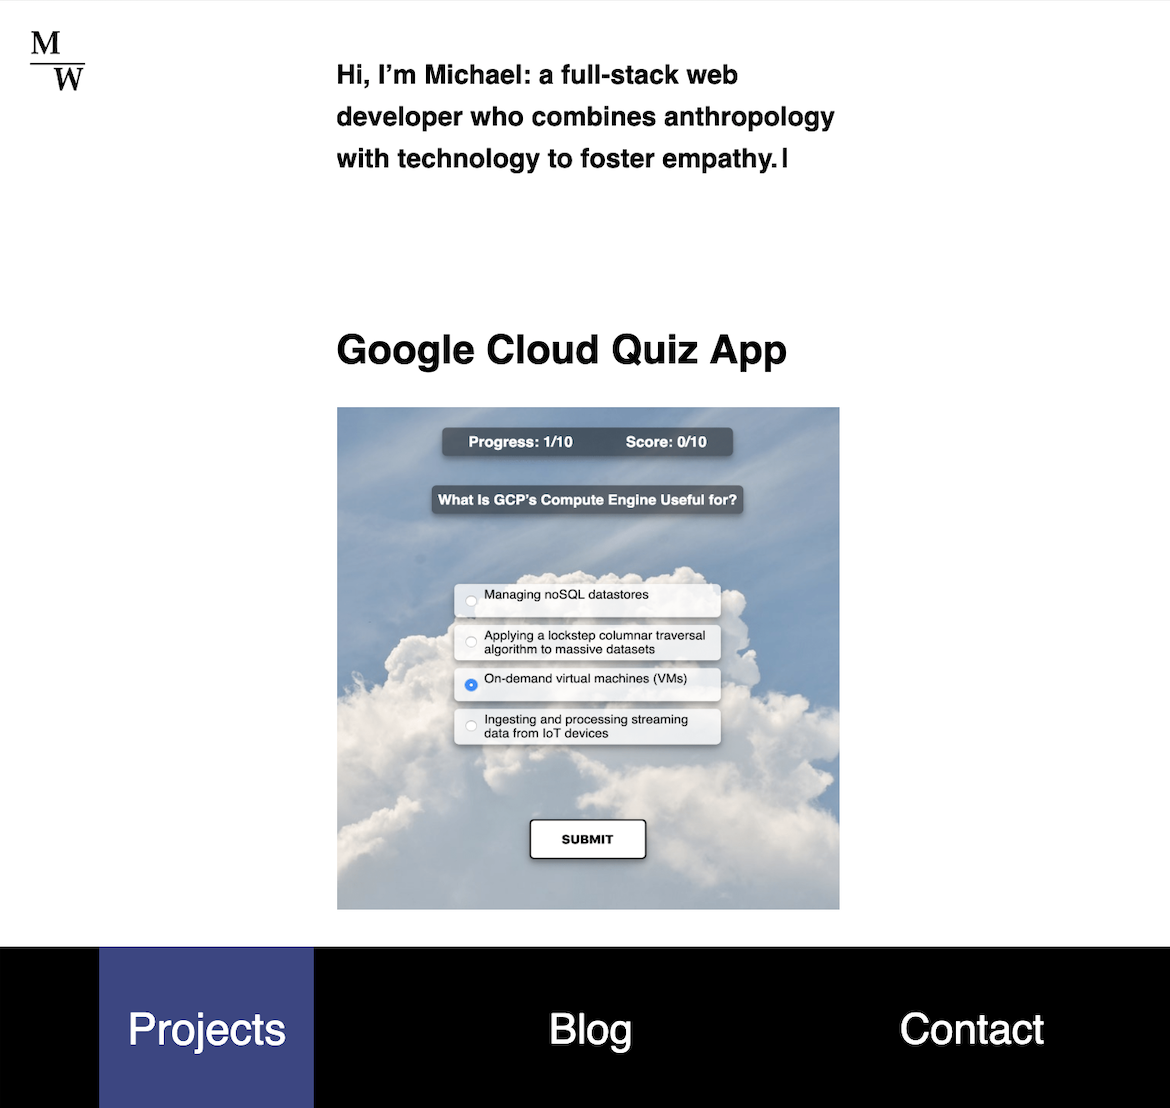
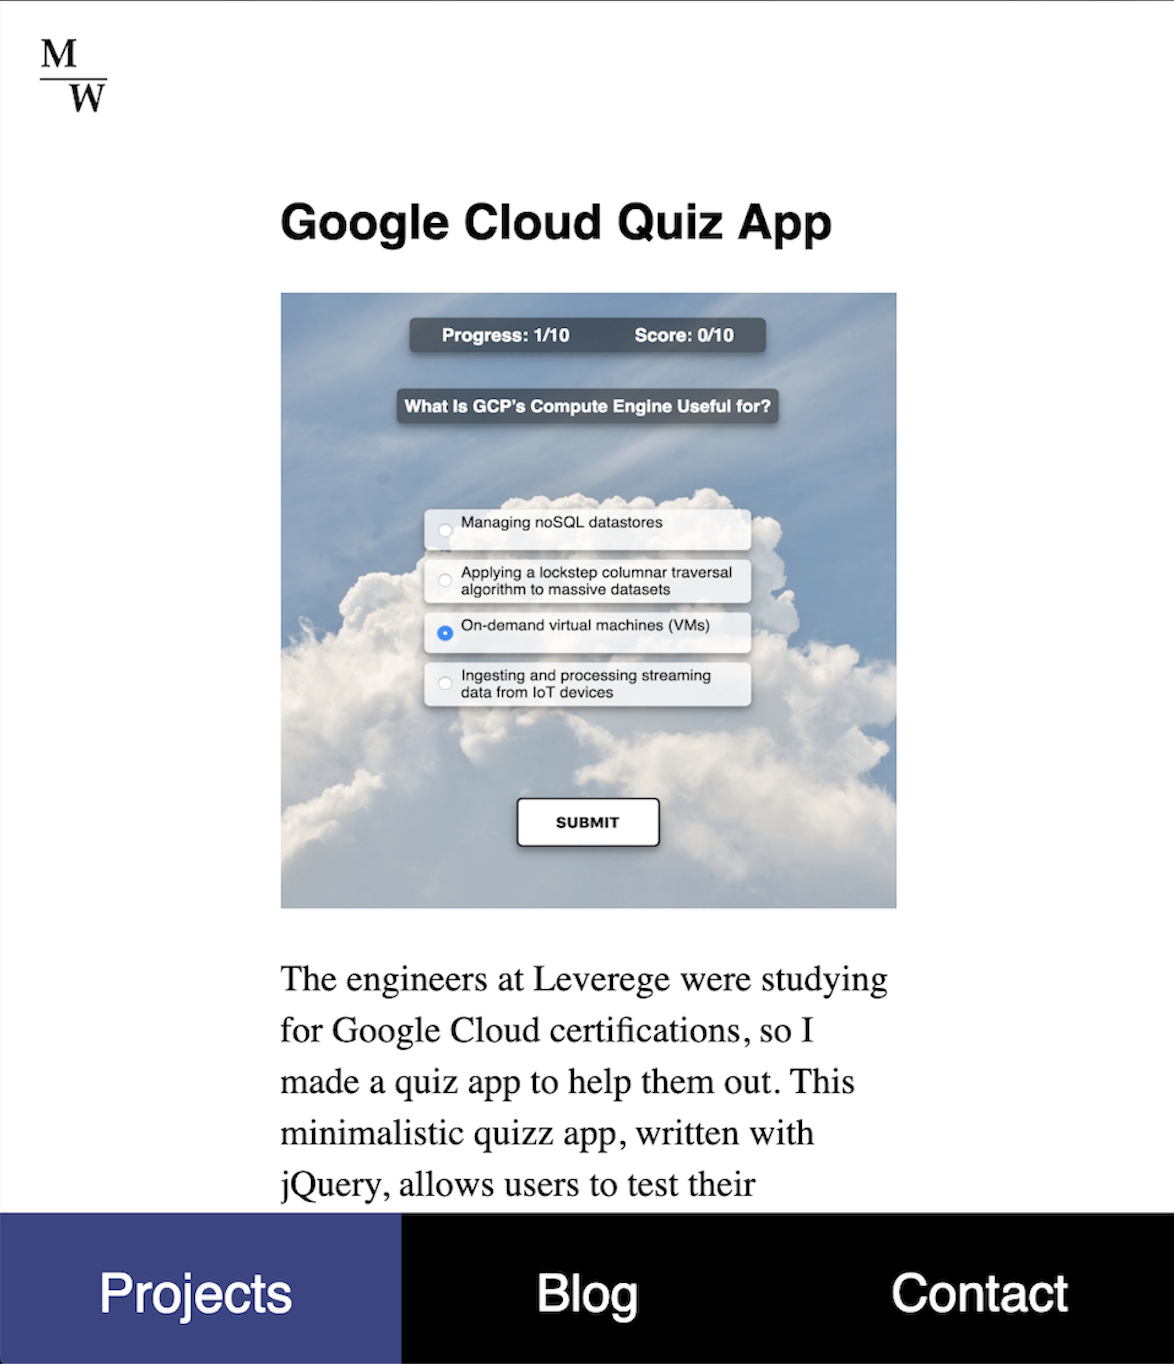
finalized basic styles

diff --git a/main.css b/main.css
@@ -2,7 +2,6 @@
 *, *:before, *:after{
     text-decoration: none;
     box-sizing: inherit;
-    overflow-x: hidden;
 }
 
 html {
@@ -16,12 +15,13 @@ body {
     bottom: 0;
     left: 0;
     right: 0;
-    margin: auto;
-    font-family: 'Quattrocento', serif;
+    margin: 0;
+    height: 100%;
+    font-family: 'Roboto Slab', serif;
 }
 
 h2 {
-    font-family: 'Oswald', sans-serif;
+    font-family: 'Ruda', sans-serif;
 }
 
 /* TYPEWRITER STYLES */
@@ -34,12 +34,13 @@ h2 {
 }
 
 #intro-typewriter {
-    margin-top: 100px;
+    margin-top: 200px;
     margin-left: 25px;
-    word-wrap:break-word;
+    word-wrap: break-word;
     height: 165px;
-    font-size: 16px;
+    font-size: 20px;
     line-height: 25px;
+    font-weight: normal;
 }
 
 /* NAV BAR STYLES */
@@ -81,23 +82,24 @@ h2 {
 /* PROJECT STYLES */
 .projects-container {
     margin-left: 300px; 
-    padding-bottom: 100px;
+    text-align: center;
 }
 
 .project-description {
     max-width: 400px;
-    font-size: 18px;
+    font-size: 20px;
     line-height: 25px;
+    margin: auto;
+    padding-bottom: 100px;
 }
 
 .project-screenshot {
-    height: 300px;
-    width: 300px;
+    max-height: 375px;
+    max-width: 375px;
 }
 
 .project-screenshot:hover {
     background-color: #3B4483;
-    color: white;
     transform: scale(1.015);
     transition: all .15s ease-in-out;
     z-index: 1;
@@ -124,7 +126,7 @@ h2 {
 }
 
 p {
-    font-size: 18px;
+    font-size: 20px;
     line-height: 25px;
     text-align: left;
 }
@@ -149,28 +151,33 @@ p {
 }
 
 /* CONTACT STYLES */
+
+.contact-container {
+    text-align: center;
+    margin-top: 25vh;
+    padding-bottom: 100px;
+}
 .contact-phrase {
     font-size: 30px;
 }
 
-.contacts-container {
+.contact-icons-container {
+    min-height: 100%;
     display: flex;
+    flex-wrap: wrap;
     flex-direction: column;
-    align-items: center;
 }
 
-/* Why won't this become a double column? Because img is nested in a? https://www.sketchingwithcss.com/samplechapter/cheatsheet.html */
-.contact-icons-container {
+.col-1, .col-2 {
     display: flex;
-    align-items: center;
+    flex-direction: row;
     justify-content: center;
-    flex-flow: column wrap;
-    align-content: center;
 }
 
 .contact-icons-container img {
     width: 50px;
     height: 50px;
+    margin: 30px;
 }
 
 /* Styles for the top left corner M/W logo */
@@ -183,7 +190,7 @@ p {
 }
 
 /* FOR SMARTPHONE VIEWS */
-@media (min-width: 320px) and (max-width: 768px) {
+@media screen and (min-width: 320px) and (max-width: 768px) {
     .navbar {
         height: 75px;
     }
@@ -200,43 +207,40 @@ p {
 
     .projects-container {
         margin: auto;
-        max-width: 300px;
+        max-width: 375px;
         padding-bottom: 100px;
-        z-index: 0;
+        text-align: center;
+        z-index: -1;
+    }
+
+    .contact-container {
+        margin-top: 10vh;
+    }
+
+    .contact-phrase {
+        font-size: 20px;
+    }
+
+    .contact-icons-container img {
+        width: 40px;
+        height: 40px;
+        margin: 20px;
+    }
+
+    .col-1, .col-2 {
+        flex-direction: column;
+        align-items: center;
     }
 
     #intro-typewriter {
-        font-size: 25px;
-        line-height: 35;
-        margin: 50px auto;
+        font-size: 20px;
+        line-height: 25px;
+        margin: 100px auto;
         width: 300px;
         height: 150px;
     }
-}
 
-/*  FOR DESKTOP VIEWS */
-/* @media (min-width: 850px) {
-    .blog-container {
-        flex-direction: row;
-    } */
-    /* switch to left side nav for desktop */
-    /* .navbar {
-        overflow: hidden;
-        position: fixed;
-        left: 0;
-        width: 100%;
-        display: flex;
-        background-color: black;
+    #logo {
+        position: static;
     }
-    .navbar > a {
-        float: left;
-        display: block;
-        color: white;
-        text-align: center;
-        padding: 14px 16px;
-        text-decoration: none;
-        font-size: 40px;
-    } 
-}*/
-
-/* @media for dekstop screen size, ease in to a side nav on the left with rotation, so that the */
+}

diff --git a/contact.html b/contact.html
@@ -8,8 +8,7 @@
   <meta name="description" content="Michael Wedd's personal portfolio website, including his projects, blog and contact information.">
   <meta name="author" content="Michael Wedd">
   <link rel="stylesheet" href="main.css">
-  <link href="https://fonts.googleapis.com/css?family=Quattrocento" rel="main.css">
-  <link href="https://fonts.googleapis.com/css?family=Oswald" rel="main.css">
+  <link href="https://fonts.googleapis.com/css?family=Roboto+Slab|Ruda" rel="main.css">
   <link rel="shortcut icon" type="image/x-icon" href="assets/MW_Logo.png"/>
 </head>
 
@@ -18,13 +17,17 @@
         <img src="assets/MW_Logo.png" id="logo"></img>
     </header>
     <main>
-        <div class="contacts-container">
-            <h2 class="contact-phrase">Let's talk.</h2>
+            <div class="contact-container">
+                <h2 class="contact-phrase">Let's talk.</h2>
             <div class="contact-icons-container">
-                <a href="https://www.linkedin.com/in/michaelwedd/"><img src="assets/linkedin_logo.png" alt="Michael Wedd's LinkedIn Profile"></a> 
-                <a href="https://github.com/mgwedd"><img src="assets/github_logo.png" alt="Michael Wedd's Github Profile"></a> 
-                <a href="tel:1-518-821-4021"><img src="assets/phone_icon.png" alt="Call Michael Wedd's Cell Phone"></a> 
-                <a href="mailto:michael.wedd@gmail.com"><img src="assets/email_icon.png" alt="Send an email to Michael Wedd"></a> 
+                <div class="col-1">
+                    <a href="https://www.linkedin.com/in/michaelwedd/"><img src="assets/linkedin_logo.png" alt="Michael Wedd's LinkedIn Profile"></a> 
+                    <a href="https://github.com/mgwedd"><img src="assets/github_logo.png" alt="Michael Wedd's Github Profile"></a> 
+                </div>
+                <div class="col-2">
+                    <a href="tel:1-518-821-4021"><img src="assets/phone_icon.png" alt="Call Michael Wedd's Cell Phone"></a> 
+                    <a href="mailto:michael.wedd@gmail.com"><img src="assets/email_icon.png" alt="Send an email to Michael Wedd"></a> 
+                </div>
             </div>
         </div>
     </main>
@@ -33,6 +36,5 @@
         <a href="blog.html">Blog</a>
         <a href="contact.html" class="active">Contact</a>
     </nav>
-    <script src="scripts.js"></script>
 </body>
 </html>

diff --git a/blog.html b/blog.html
@@ -9,8 +9,7 @@
   <meta name="description" content="Michael Wedd's personal portfolio website, including his projects, blog and contact information.">
   <meta name="author" content="Michael Wedd">
   <link rel="stylesheet" href="main.css">
-  <link href="https://fonts.googleapis.com/css?family=Quattrocento" rel="main.css">
-  <link href="https://fonts.googleapis.com/css?family=Oswald" rel="main.css">
+  <link href="https://fonts.googleapis.com/css?family=Roboto+Slab|Ruda" rel="main.css">
   <link rel="shortcut icon" type="image/x-icon" href="assets/MW_Logo.png"/>
 </head>
 
@@ -25,7 +24,7 @@
                 <p>If I told you I planned to be a Venture for America (VFA) Fellow working at Leverege and IoT For All, I’d be lying. I’d also be lying if I claimed that five or ten years ago I ever could’ve imagined I’d end up here at Leverege.</p>
             </div>
         </div>
-        <div class="blogpost">
+        <div class="blogpost"> 
             <a href="https://faroutguys.com/"><h2 class="blogpost-title">Raphael & Michael Cycle North America</h2></a>
             <div class="blog-post-summary">
                 <p>My brother (Raphael) and I bicycled unsupported across the US and Canada. This blog is part journal, part gallery, part public record. We started in New York, peddled to Prince Rupert, British Columbia, and then down the Pacific Coast to San Francisco, CA. All told, our unassisted tour took us some six thousand miles over three months.</p>
@@ -49,6 +48,5 @@
         <a href="blog.html" class="active">Blog</a>
         <a href="contact.html">Contact</a>
     </nav>
-    <script src="scripts.js"></script>
 </body>
 </html>

diff --git a/index.html b/index.html
@@ -8,8 +8,7 @@
   <meta name="description" content="Michael Wedd's personal portfolio website, including his projects, blog and contact information.">
   <meta name="author" content="Michael Wedd">
   <link rel="stylesheet" href="main.css">
-  <link href="https://fonts.googleapis.com/css?family=Quattrocento" rel="main.css">
-  <link href="https://fonts.googleapis.com/css?family=Oswald" rel="main.css">
+  <link href="https://fonts.googleapis.com/css?family=Roboto+Slab|Ruda" rel="main.css">
   <link rel="shortcut icon" type="image/x-icon" href="assets/MW_Logo.png"/>
   <script src="https://cdn.jsdelivr.net/npm/typeit@6/dist/typeit.min.js"></script>
   <script src="https://ajax.googleapis.com/ajax/libs/jquery/3.3.1/jquery.min.js"></script>
@@ -43,7 +42,6 @@
                     <div class="project-description">
                         <p>I wanted a place to collect my work and show it to the world, so I made this portfolio site. As I learn new technologies, I'll continue to rebuild the site.</p>
                         <p><strong>Technologies</strong>: HTML, CSS, Javascript </p>
-                        <p><strong>Live Site</strong>: <a href="https://mgwedd.github.io/portfolio/">Take the quiz here</a></p>
                         <p><strong>Repo</strong>: <a href="https://github.com/mgwedd/portfolio/">Show me the code</a></p> 
                     </div> 
             </div> 

diff --git a/scripts.js b/scripts.js
@@ -2,9 +2,3 @@ const instance = new TypeIt('#intro-typewriter', {
     speed: 25,
     waitUntilVisible: true,
   }).go();
-
-// $(".projects-container").hide();
-
-// setTimeout(function () {
-//   $(".projects-container").fadeIn();
-// }, 3000);
